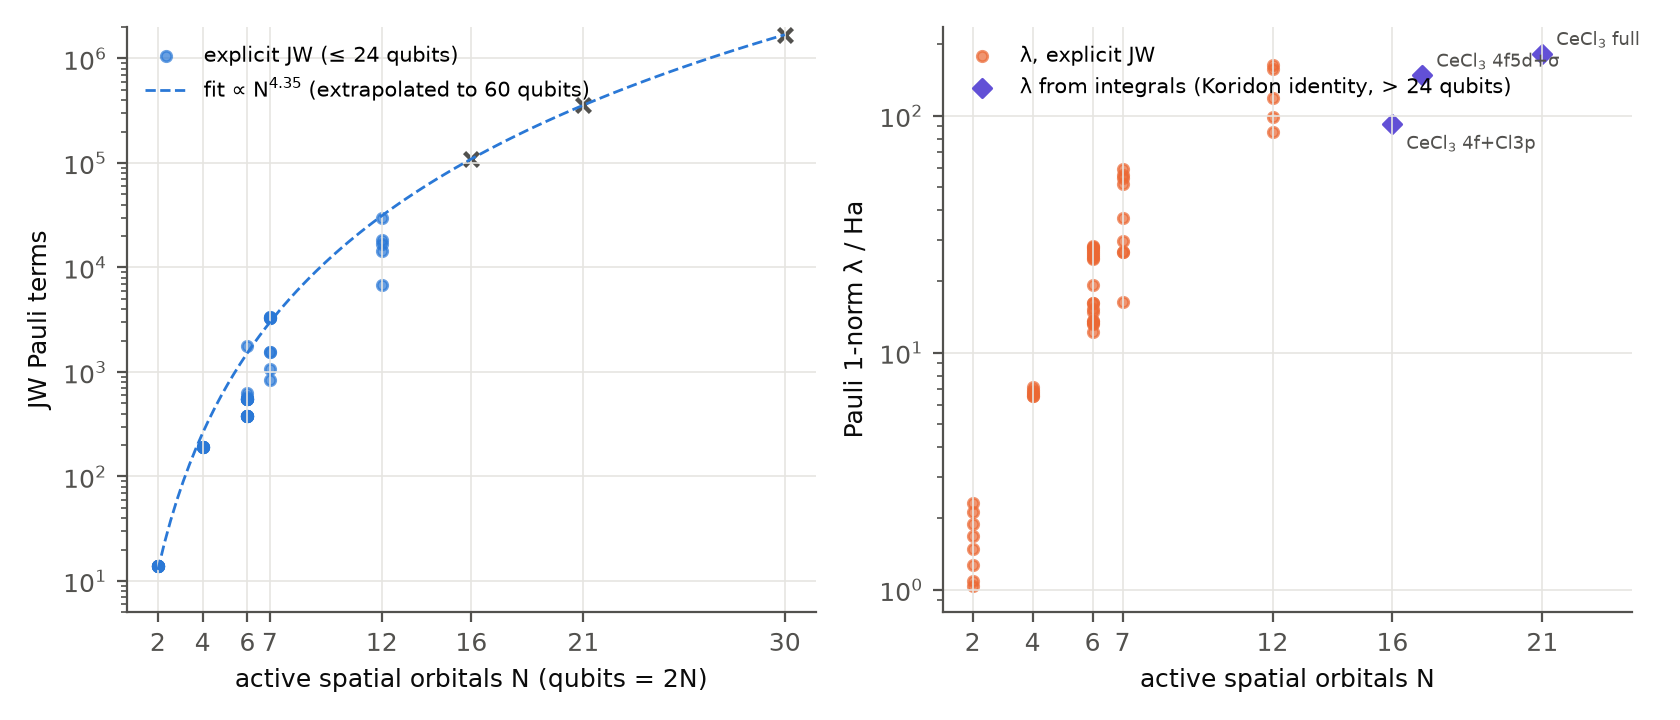
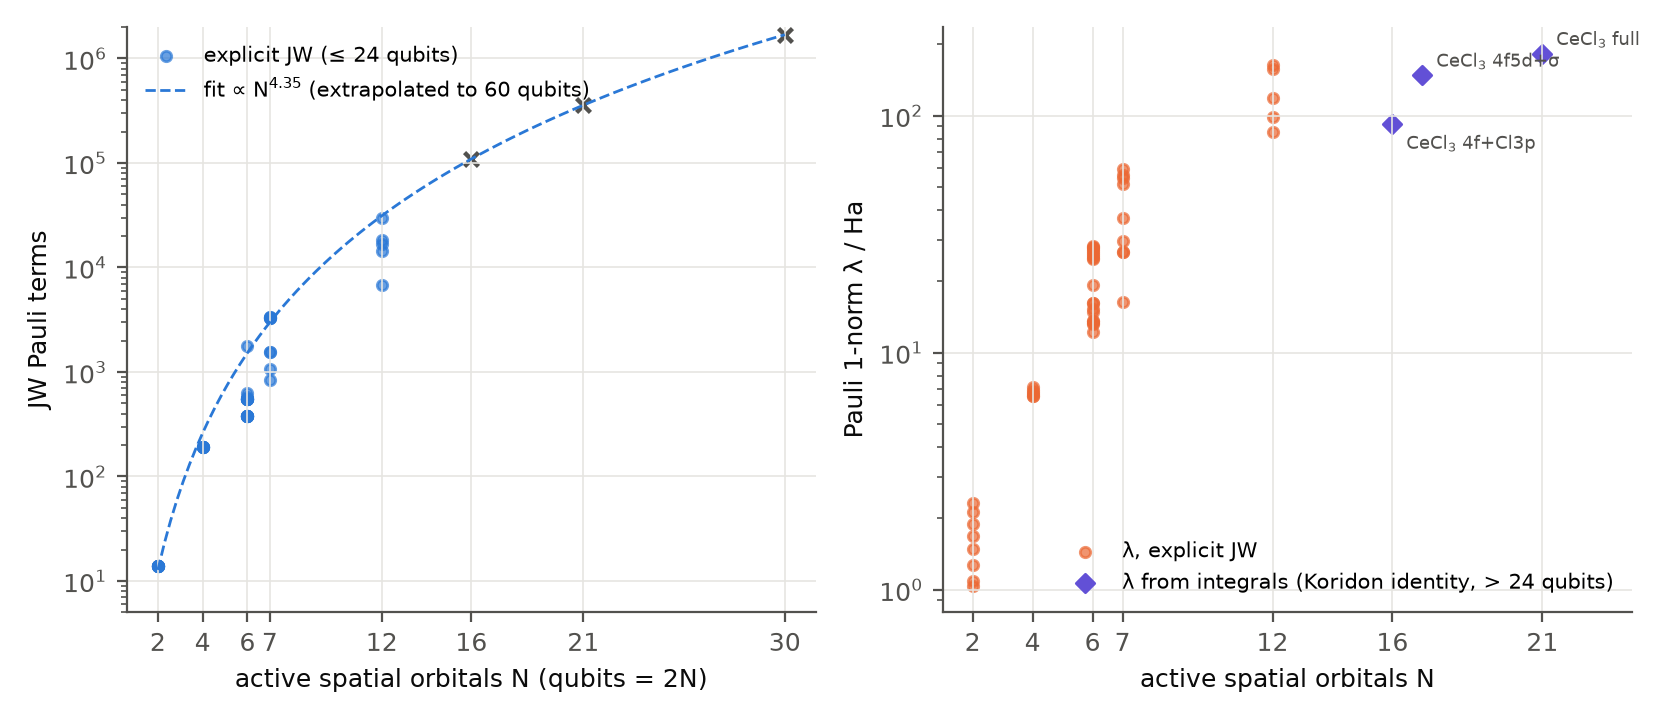
Figure 3 legend placement; scaling exponent updated to the regenerated fit

diff --git a/scripts/make_plots.py b/scripts/make_plots.py
@@ -190,7 +190,7 @@ def fig_scaling(data):
                         xytext=(5, -9 if "cl3p" in nm else 3), textcoords="offset points")
     ax.set_yscale("log"); ax.set_xticks([2, 4, 6, 7, 12, 16, 21]); ax.set_xlim(1, 24)
     ax.set_xlabel("active spatial orbitals N"); ax.set_ylabel("Pauli 1-norm λ / Ha")
-    ax.legend(fontsize=7.5, loc="upper left")
+    ax.legend(fontsize=7.5, loc="lower right")
     fig.tight_layout()
     fig.savefig(FIG / "fig3_scaling.png")
     plt.close(fig)

diff --git a/report/lanthanide_feasibility.md b/report/lanthanide_feasibility.md
@@ -85,7 +85,7 @@ What the ladder shows, and what it cannot show.
 3. **λ and term counts along the ladder.** λ per qubit is roughly constant (4.0 at L1, 4.3 at L3 and L5) and
    L4 (32 qubits, λ = 92 Ha) sits below L2 (24 qubits, 118 Ha): λ tracks which orbitals are present (5d
    contributes large exchange integrals) more than the qubit count. The JW term count over all systems
-   follows N^4.2 in the number of active orbitals (fig. 3), i.e. of order 2–3e5 explicit terms at 42 qubits.
+   follows N^4.35 in the number of active orbitals (fig. 3, fit over all systems), i.e. of order 2–3e5 explicit terms at 42 qubits.
 
 ## 4. Scalar versus two-component: what spin-orbit coupling does to the qubit Hamiltonian
 

diff --git a/README.md b/README.md
@@ -62,7 +62,7 @@ CASCI job.
 - `results/figures/fig1_ladder.png` qubits / Pauli terms / λ / QPE-proxy queries along the ladder with the
   simulation-regime bands.
 - `results/figures/fig2_curves.png` N2 and H2O: energies and E − E_CASCI for HF and UCCSD-VQE.
-- `results/figures/fig3_scaling.png` Pauli terms and λ vs active orbitals (N^4.2 fit).
+- `results/figures/fig3_scaling.png` Pauli terms and λ vs active orbitals (N^4.35 fit).
 
 ## Known limitations
 
